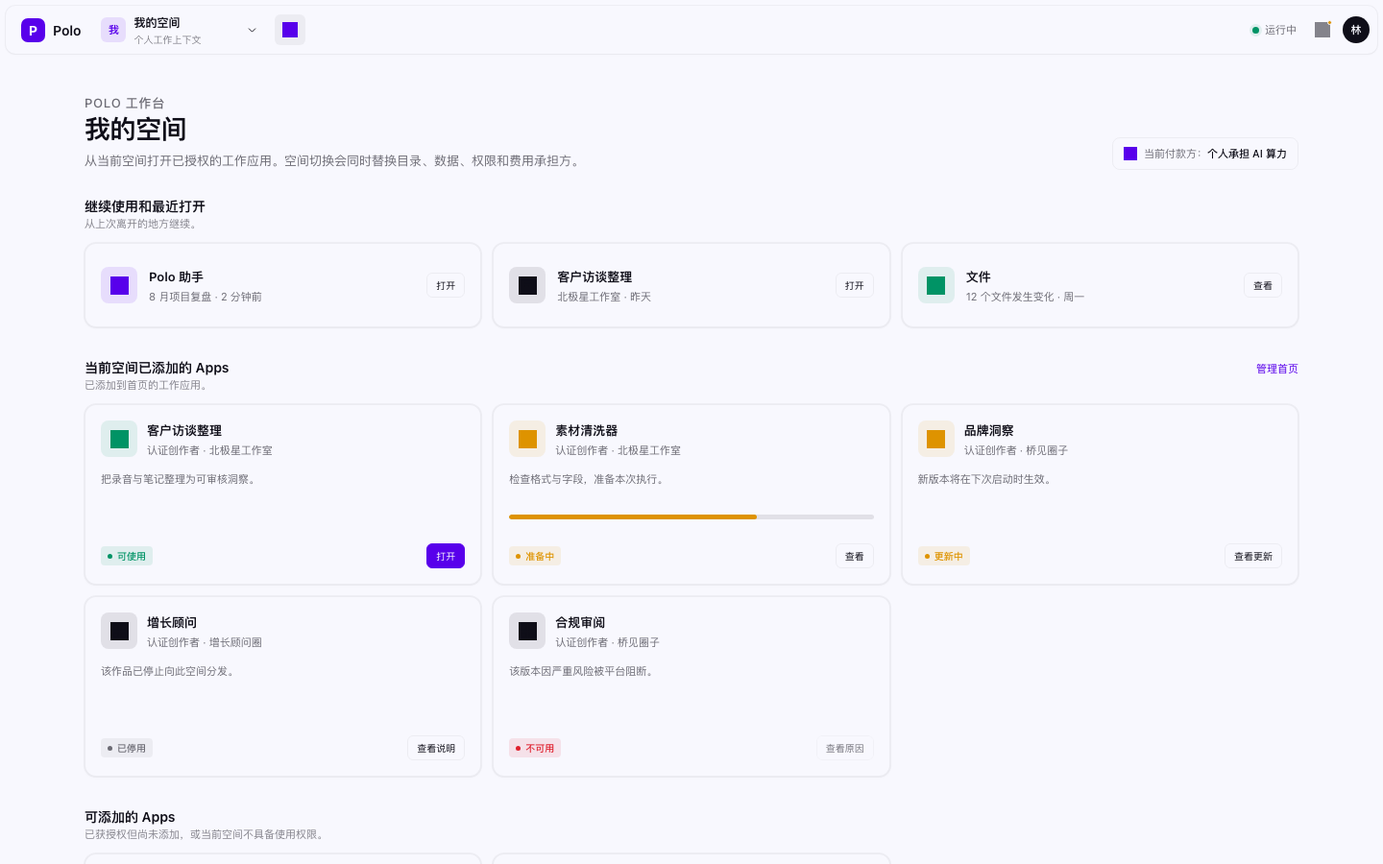
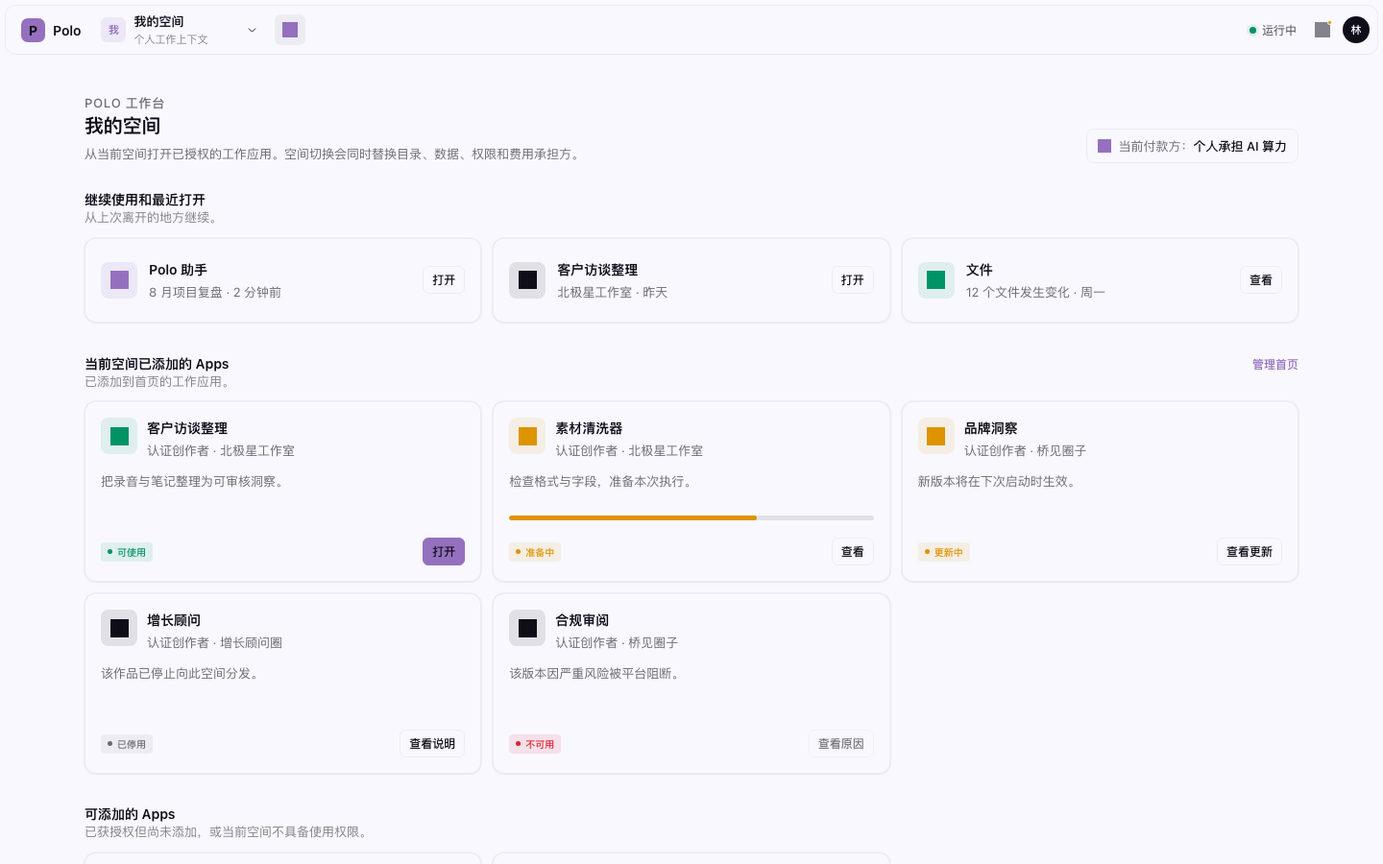
freeze g4 polo client ui

diff --git a/design-demos/polo-client-g4-ui/assets/product.css b/design-demos/polo-client-g4-ui/assets/product.css
@@ -1,11 +1,13 @@
 :root {
   --background: oklch(0.98 0.008 290);
   --foreground: oklch(0.17 0.02 290);
-  --accent: oklch(0.44 0.30 285);
+  /* #9570BE converted from sRGB to OKLCH: oklch(0.613 0.121 304.95). */
+  --accent: oklch(0.613 0.121 304.95);
   --info: oklch(0.72 0.16 75);
   --success: oklch(0.58 0.14 165);
   --destructive: oklch(0.58 0.22 25);
-  --on-accent: oklch(1 0 0);
+  /* #9570BE with white is 3.93:1; use the dark near-foreground for 4.87:1. */
+  --on-accent: oklch(0.17 0.02 290);
   --bg-elevated: color-mix(in srgb, var(--foreground) 1.5%, var(--background));
   --surface-strong: color-mix(in srgb, var(--foreground) 3%, var(--background));
   --border: color-mix(in srgb, var(--foreground) 5%, transparent);
@@ -41,7 +43,8 @@
 [data-theme="dark"] {
   --background: oklch(0.14 0.025 290);
   --foreground: oklch(0.94 0.015 290);
-  --accent: oklch(0.52 0.28 285);
+  /* Dark-surface derivation from #9570BE: lightness +0.080, chroma -0.020, hue retained -> oklch(0.693 0.101 304.95). */
+  --accent: oklch(0.693 0.101 304.95);
   --info: oklch(0.76 0.15 75);
   --success: oklch(0.68 0.14 165);
   --destructive: oklch(0.64 0.22 25);
@@ -67,13 +70,13 @@ button:focus-visible, [tabindex]:focus-visible { outline: 3px solid color-mix(in
 .space-trigger:hover, .space-trigger[aria-expanded="true"] { background: var(--fg-5); }
 .space-avatar { display: grid; width: 26px; height: 26px; flex: 0 0 auto; place-items: center; border-radius: var(--radius-sm); background: var(--accent-soft); color: var(--accent); font-size: 11px; font-weight: 600; }
 .space-copy { display: grid; min-width: 0; gap: 2px; flex: 1; }
-.space-copy strong { overflow: hidden; color: var(--foreground); font-size: 12px; font-weight: 600; text-overflow: ellipsis; white-space: nowrap; }
-.space-copy small { overflow: hidden; color: var(--fg-50); font-size: 10px; text-overflow: ellipsis; white-space: nowrap; }
+.space-copy strong { overflow: hidden; color: var(--foreground); font-size: 13px; font-weight: 600; text-overflow: ellipsis; white-space: nowrap; }
+.space-copy small { overflow: hidden; color: var(--fg-50); font-size: 11px; text-overflow: ellipsis; white-space: nowrap; }
 .icon { display: inline-block; width: 16px; height: 16px; flex: 0 0 auto; background: currentColor; }
 .icon-chevron { width: 13px; height: 13px; background: transparent; }
 .tabs { display: flex; align-items: center; gap: 4px; min-width: 0; height: 100%; overflow-x: auto; scrollbar-width: none; }
 .tabs::-webkit-scrollbar { display: none; }
-.tab { display: inline-flex; align-items: center; gap: 7px; max-width: 180px; height: 32px; padding: 0 7px 0 10px; border: 0; border-radius: var(--radius-sm); background: transparent; color: var(--fg-50); font-size: 12px; white-space: nowrap; }
+.tab { display: inline-flex; align-items: center; gap: 7px; max-width: 180px; height: 32px; padding: 0 7px 0 10px; border: 0; border-radius: var(--radius-sm); background: transparent; color: var(--fg-50); font-size: 13px; white-space: nowrap; }
 .tab:hover, .tab.active { background: var(--fg-5); color: var(--foreground); }
 .tab.active { box-shadow: inset 0 -2px var(--accent); }
 .tab .tab-icon { width: 15px; height: 15px; border-radius: 4px; background: var(--accent-soft); color: var(--accent); }
@@ -84,7 +87,7 @@ button:focus-visible, [tabindex]:focus-visible { outline: 3px solid color-mix(in
 .home-tab .icon { width: 16px; height: 16px; }
 .bar-actions { display: flex; align-items: center; gap: 2px; margin-left: auto; }
 .bar-button, .icon-button, .avatar-button { border: 0; background: transparent; }
-.bar-button { display: flex; align-items: center; gap: 6px; height: 32px; padding: 0 9px; border-radius: var(--radius-sm); color: var(--fg-60); font-size: 11px; }
+.bar-button { display: flex; align-items: center; gap: 6px; height: 32px; padding: 0 9px; border-radius: var(--radius-sm); color: var(--fg-60); font-size: 12px; font-weight: 500; }
 .bar-button:hover { background: var(--fg-5); color: var(--foreground); }
 .icon-button { position: relative; display: grid; width: 32px; height: 32px; place-items: center; border-radius: var(--radius-sm); color: var(--fg-50); }
 .icon-button:hover { background: var(--fg-5); color: var(--foreground); }
@@ -95,15 +98,15 @@ button:focus-visible, [tabindex]:focus-visible { outline: 3px solid color-mix(in
 .popover { position: absolute; top: calc(100% + 8px); border: 1px solid var(--border); border-radius: var(--radius-inner); background: var(--background); box-shadow: var(--shadow-panel); }
 .space-menu { left: 0; width: 274px; padding: 6px; }
 .account-menu { right: 8px; width: 272px; padding: 6px; }
-.menu-label { padding: 8px 9px 5px; color: var(--fg-40); font-size: 10px; font-weight: 500; letter-spacing: .7px; }
+.menu-label { padding: 8px 9px 5px; color: var(--fg-40); font-size: 11px; font-weight: 500; letter-spacing: .75px; text-transform: uppercase; }
 .space-row, .menu-row { display: flex; align-items: center; gap: 9px; width: 100%; min-height: 42px; padding: 6px 8px; border: 0; border-radius: var(--radius-sm); background: transparent; text-align: left; }
 .space-row:hover, .space-row.active, .menu-row:hover { background: var(--fg-5); }
 .space-row > span:nth-child(2) { display: grid; min-width: 0; flex: 1; gap: 2px; }
-.space-row b, .menu-row b { font-size: 12px; font-weight: 500; }
-.space-row small, .menu-row small { color: var(--fg-50); font-size: 10px; }
+.space-row b, .menu-row b { font-size: 13px; font-weight: 500; }
+.space-row small, .menu-row small { color: var(--fg-50); font-size: 11px; }
 .space-row .check { width: 15px; height: 15px; color: var(--success); }
 .menu-divider { height: 1px; margin: 5px 3px; background: var(--border); }
-.menu-section-title { padding: 8px 9px 4px; color: var(--fg-40); font-size: 10px; }
+.menu-section-title { padding: 8px 9px 4px; color: var(--fg-40); font-size: 11px; font-weight: 500; letter-spacing: .75px; text-transform: uppercase; }
 .menu-row .menu-icon { display: grid; width: 26px; height: 26px; place-items: center; border-radius: var(--radius-sm); background: var(--fg-5); color: var(--fg-60); }
 .menu-row .icon { width: 14px; height: 14px; }
 .menu-row .menu-copy { display: grid; min-width: 0; flex: 1; gap: 2px; }
@@ -111,25 +114,25 @@ button:focus-visible, [tabindex]:focus-visible { outline: 3px solid color-mix(in
 
 .workspace-main { max-width: 1360px; margin: 6px auto 0; padding: 28px clamp(18px, 4vw, 48px) 54px; }
 .page-heading { display: flex; align-items: flex-end; justify-content: space-between; gap: 20px; margin-bottom: 28px; }
-.eyebrow { margin: 0 0 7px; color: var(--fg-50); font-size: 10px; font-weight: 500; letter-spacing: .75px; text-transform: uppercase; }
-.page-heading h1 { margin: 0; font-size: 27px; font-weight: 600; letter-spacing: -.4px; line-height: 1.2; }
+.eyebrow { margin: 0 0 7px; color: var(--fg-50); font-size: 11px; font-weight: 500; letter-spacing: .75px; text-transform: uppercase; }
+.page-heading h1 { margin: 0; font-size: 20px; font-weight: 600; letter-spacing: -.15px; line-height: 1.25; }
 .page-heading p { max-width: 620px; margin: 8px 0 0; color: var(--fg-60); font-size: 13px; line-height: 1.5; }
-.heading-context { display: flex; align-items: center; gap: 7px; padding: 8px 11px; border: 1px solid var(--border); border-radius: var(--radius-md); color: var(--fg-60); font-size: 11px; white-space: nowrap; }
+.heading-context { display: flex; align-items: center; gap: 7px; padding: 8px 11px; border: 1px solid var(--border); border-radius: var(--radius-md); color: var(--fg-60); font-size: 13px; white-space: nowrap; }
 .heading-context strong { color: var(--foreground); font-weight: 500; }
 .heading-context .icon { width: 14px; height: 14px; color: var(--accent); }
 .section { margin-top: 32px; }
 .section:first-of-type { margin-top: 0; }
 .section-header { display: flex; align-items: baseline; justify-content: space-between; gap: 12px; margin-bottom: 12px; }
 .section-header h2 { margin: 0; font-size: 14px; font-weight: 600; }
-.section-header p { margin: 0; color: var(--fg-50); font-size: 11px; }
-.section-link { padding: 3px 0; border: 0; background: transparent; color: var(--accent); font-size: 11px; }
+.section-header p { margin: 0; color: var(--fg-50); font-size: 13px; line-height: 1.35; }
+.section-link { padding: 3px 0; border: 0; background: transparent; color: var(--accent); font-size: 12px; font-weight: 500; }
 .section-link:hover { text-decoration: underline; }
 .continue-grid, .card-grid { display: grid; grid-template-columns: repeat(3, minmax(0, 1fr)); gap: 12px; }
 .continue-card, .product-card, .result-card, .skill-card { min-width: 0; padding: 16px; border: 1px solid var(--border); border-radius: var(--radius-lg); background: var(--background); box-shadow: var(--shadow-minimal); transition: transform var(--transition-fast), box-shadow var(--transition-fast); }
 .continue-card:hover, .product-card:hover, .result-card:hover, .skill-card:hover { transform: translateY(-1px); box-shadow: var(--shadow-middle); }
 .continue-card { display: flex; align-items: center; gap: 12px; min-height: 88px; }
 .product-card { display: flex; min-height: 188px; flex-direction: column; }
-.result-card { min-height: 118px; }
+.result-card { min-height: 124px; }
 .card-heading { display: flex; align-items: flex-start; gap: 10px; min-width: 0; }
 .app-art { display: grid; width: 38px; height: 38px; flex: 0 0 auto; place-items: center; border-radius: var(--radius-md); background: var(--accent-soft); color: var(--accent); }
 .app-art.teal { background: var(--success-soft); color: var(--success); }
@@ -137,12 +140,12 @@ button:focus-visible, [tabindex]:focus-visible { outline: 3px solid color-mix(in
 .app-art.ink { background: var(--fg-10); color: var(--foreground); }
 .app-art .icon { width: 19px; height: 19px; }
 .card-title { min-width: 0; }
-.card-title h3 { overflow: hidden; margin: 1px 0 4px; font-size: 13px; font-weight: 600; text-overflow: ellipsis; white-space: nowrap; }
-.card-title p, .product-description, .result-card p, .skill-card p { margin: 0; color: var(--fg-60); font-size: 11px; line-height: 1.5; }
+.card-title h3 { overflow: hidden; margin: 1px 0 4px; font-size: 14px; font-weight: 600; text-overflow: ellipsis; white-space: nowrap; }
+.card-title p, .product-description, .result-card p, .skill-card p { margin: 0; color: var(--fg-60); font-size: 13px; line-height: 1.45; }
 .continue-card .card-title p { overflow: hidden; text-overflow: ellipsis; white-space: nowrap; }
-.card-meta { margin-top: 10px; color: var(--fg-50); font-size: 10px; }
+.card-meta { margin-top: 10px; color: var(--fg-50); font-size: 11px; }
 .product-description { min-height: 35px; margin-top: 13px; }
-.source-line { margin-top: 3px; overflow: hidden; color: var(--fg-50); font-size: 10px; text-overflow: ellipsis; white-space: nowrap; }
+.source-line { margin-top: 3px; overflow: hidden; color: var(--fg-50); font-size: 11px; text-overflow: ellipsis; white-space: nowrap; }
 .status-line { display: flex; align-items: center; gap: 5px; margin-top: auto; padding-top: 14px; }
 .status { display: inline-flex; align-items: center; gap: 5px; min-height: 20px; padding: 2px 7px; border-radius: var(--radius-xs); font-size: 10px; font-weight: 500; line-height: 1.4; }
 .status::before { width: 5px; height: 5px; border-radius: 50%; background: currentColor; content: ""; }
@@ -150,17 +153,24 @@ button:focus-visible, [tabindex]:focus-visible { outline: 3px solid color-mix(in
 .status.info { background: var(--info-soft); color: var(--info); }
 .status.bad { background: var(--destructive-soft); color: var(--destructive); }
 .status.neutral { background: var(--fg-5); color: var(--fg-60); }
-.card-action { margin-left: auto; padding: 5px 9px; border: 1px solid var(--border); border-radius: var(--radius-sm); background: transparent; color: var(--foreground); font-size: 10px; }
+.card-action { margin-left: auto; padding: 5px 9px; border: 1px solid var(--border); border-radius: var(--radius-sm); background: transparent; color: var(--foreground); font-size: 12px; font-weight: 500; }
 .card-action:hover { border-color: var(--accent); color: var(--accent); }
 .card-action.primary { border-color: var(--accent); background: var(--accent); color: var(--on-accent); }
 .card-action:disabled { cursor: not-allowed; opacity: .55; }
 .progress-bar { height: 5px; margin-top: 10px; overflow: hidden; border-radius: var(--radius-pill); background: var(--fg-10); }
 .progress-bar i { display: block; width: 68%; height: 100%; border-radius: inherit; background: var(--info); }
 .empty-note { padding: 20px; border: 1px dashed var(--border); border-radius: var(--radius-lg); color: var(--fg-60); font-size: 12px; }
+/* derived: foundation §5 空状态/加载契约 */
+.skeleton-stack { display: grid; gap: 8px; }
+.skeleton { min-height: 12px; border-radius: 5px; background: linear-gradient(90deg, var(--fg-5) 0%, var(--fg-10) 50%, var(--fg-5) 100%); background-size: 200% 100%; animation: skeleton-shimmer 1.5s ease-in-out infinite; }
+.empty-state { display: grid; justify-items: center; gap: 10px; padding: 28px 20px; border: 1px solid var(--border); border-radius: var(--radius-lg); color: var(--fg-60); text-align: center; }
+.empty-state h2 { margin: 0; color: var(--foreground); font-size: 20px; font-weight: 600; line-height: 1.25; letter-spacing: -.15px; }
+.empty-state p { max-width: 440px; margin: 0; font-size: 13px; font-weight: 400; line-height: 1.35; }
+.empty-state .button { margin-top: 2px; }
 .built-in-grid { display: grid; grid-template-columns: repeat(3, minmax(0, 1fr)); gap: 12px; }
 .built-in-card { display: flex; align-items: center; gap: 12px; min-height: 94px; padding: 15px; border-radius: var(--radius-lg); background: var(--fg-3); }
-.built-in-card h3 { margin: 0 0 4px; font-size: 13px; font-weight: 600; }
-.built-in-card p { margin: 0; color: var(--fg-60); font-size: 11px; line-height: 1.45; }
+.built-in-card h3 { margin: 0 0 4px; font-size: 14px; font-weight: 600; }
+.built-in-card p { margin: 0; color: var(--fg-60); font-size: 13px; line-height: 1.45; }
 .built-in-card .card-action { margin-left: auto; }
 .skills-grid { display: grid; grid-template-columns: repeat(3, minmax(0, 1fr)); gap: 12px; }
 .skill-card { min-height: 132px; }
@@ -168,8 +178,8 @@ button:focus-visible, [tabindex]:focus-visible { outline: 3px solid color-mix(in
 .skill-card .skill-callout { margin-top: 12px; padding-top: 9px; border-top: 1px solid var(--border); color: var(--accent); font-size: 10px; }
 .skill-card .skill-callout::before { display: inline-block; width: 5px; height: 5px; margin-right: 6px; border-radius: 50%; background: currentColor; content: ""; }
 .results-grid { display: grid; grid-template-columns: 1.2fr 1fr 1fr; gap: 12px; }
-.result-card h3 { margin: 0 0 5px; font-size: 12px; font-weight: 600; }
-.result-card .result-foot { display: flex; align-items: center; justify-content: space-between; margin-top: 15px; color: var(--fg-50); font-size: 10px; }
+.result-card h3 { margin: 0 0 5px; font-size: 14px; font-weight: 600; }
+.result-card .result-foot { display: flex; align-items: center; justify-content: space-between; margin-top: 15px; color: var(--fg-50); font-size: 11px; }
 .result-card .result-foot a { color: var(--accent); text-decoration: none; }
 .result-card .result-foot a:hover { text-decoration: underline; }
 
@@ -177,7 +187,7 @@ button:focus-visible, [tabindex]:focus-visible { outline: 3px solid color-mix(in
 .dialog { width: min(480px, 100%); overflow: hidden; border: 1px solid var(--border); border-radius: var(--radius-edge); background: var(--background); box-shadow: var(--shadow-panel); animation: dialog-in var(--transition-fast); }
 .dialog-header { display: flex; align-items: flex-start; justify-content: space-between; gap: 16px; padding: 20px 20px 14px; }
 .dialog-header h2 { margin: 0; font-size: 16px; font-weight: 600; }
-.dialog-header p { margin: 6px 0 0; color: var(--fg-60); font-size: 12px; line-height: 1.5; }
+.dialog-header p { margin: 6px 0 0; color: var(--fg-60); font-size: 13px; font-weight: 400; line-height: 1.5; }
 .dialog-body { padding: 0 20px 18px; }
 .dialog-footer { display: flex; justify-content: flex-end; gap: 8px; padding: 13px 20px; border-top: 1px solid var(--border); }
 .close-button { display: grid; width: 28px; height: 28px; place-items: center; border: 0; border-radius: var(--radius-sm); background: transparent; color: var(--fg-50); }
@@ -186,10 +196,10 @@ button:focus-visible, [tabindex]:focus-visible { outline: 3px solid color-mix(in
 .dialog-row { display: flex; align-items: center; gap: 10px; padding: 11px; border-bottom: 1px solid var(--border); }
 .dialog-row:last-child { border-bottom: 0; }
 .dialog-row .row-copy { display: grid; min-width: 0; flex: 1; gap: 3px; }
-.dialog-row strong { font-size: 12px; font-weight: 500; }
+.dialog-row strong { font-size: 13px; font-weight: 500; }
 .dialog-row small { color: var(--fg-50); font-size: 10px; }
 .dialog-row .row-state { color: var(--info); font-size: 10px; }
-.button { min-height: 32px; padding: 0 12px; border: 1px solid var(--border); border-radius: var(--radius-md); background: transparent; color: var(--foreground); font-size: 11px; }
+.button { min-height: 32px; padding: 0 12px; border: 1px solid var(--border); border-radius: var(--radius-md); background: transparent; color: var(--foreground); font-size: 12px; font-weight: 500; }
 .button:hover { background: var(--fg-5); }
 .button.primary { border-color: var(--accent); background: var(--accent); color: var(--on-accent); }
 .button.danger { border-color: var(--destructive); background: var(--destructive); color: var(--on-accent); }
@@ -199,10 +209,10 @@ button:focus-visible, [tabindex]:focus-visible { outline: 3px solid color-mix(in
 .notice:hover { background: var(--fg-5); }
 .notice-mark { width: 6px; height: 6px; margin-top: 5px; border-radius: 50%; background: var(--info); }
 .notice.success .notice-mark { background: var(--success); }
-.notice strong { display: block; font-size: 11px; font-weight: 500; }
-.notice p { margin: 3px 0 0; color: var(--fg-60); font-size: 10px; line-height: 1.45; }
-.notice small { display: inline-block; margin-top: 4px; color: var(--fg-50); font-size: 9px; }
-.toast { position: fixed; z-index: 80; right: 20px; bottom: 20px; max-width: 360px; padding: 10px 13px; border-left: 3px solid var(--accent); border-radius: var(--radius-md); background: var(--foreground); color: var(--background); box-shadow: var(--shadow-middle); font-size: 11px; animation: toast-in var(--transition-fast); }
+.notice strong { display: block; font-size: 13px; font-weight: 500; }
+.notice p { margin: 3px 0 0; color: var(--fg-60); font-size: 13px; font-weight: 400; line-height: 1.45; }
+.notice small { display: inline-block; margin-top: 4px; color: var(--fg-50); font-size: 10px; }
+.toast { position: fixed; z-index: 80; right: 20px; bottom: 20px; max-width: 360px; padding: 10px 13px; border-left: 3px solid var(--accent); border-radius: var(--radius-md); background: var(--foreground); color: var(--background); box-shadow: var(--shadow-middle); font-size: 13px; line-height: 1.35; animation: toast-in var(--transition-fast); }
 .window-guard { position: fixed; z-index: 100; inset: 0; display: grid; place-items: center; padding: 24px; background: var(--background); }
 .guard-card { max-width: 330px; text-align: center; }
 .guard-icon { display: grid; width: 52px; height: 52px; place-items: center; margin: 0 auto 18px; border-radius: var(--radius-edge); background: var(--info-soft); color: var(--info); }
@@ -211,6 +221,7 @@ button:focus-visible, [tabindex]:focus-visible { outline: 3px solid color-mix(in
 .guard-card p:last-child { margin: 0; color: var(--fg-60); font-size: 13px; line-height: 1.55; }
 @keyframes dialog-in { from { opacity: 0; transform: translateY(4px); } to { opacity: 1; transform: translateY(0); } }
 @keyframes toast-in { from { opacity: 0; transform: translateY(8px); } to { opacity: 1; transform: translateY(0); } }
+@keyframes skeleton-shimmer { from { background-position: 200% 0; } to { background-position: -200% 0; } }
 
 @media (max-width: 1080px) {
   .brand-lockup { min-width: 62px; }

diff --git a/design-demos/polo-client-g4-ui/assets/app.js b/design-demos/polo-client-g4-ui/assets/app.js
@@ -30,7 +30,7 @@
 
   const spaces = {
     personal: { name: "我的空间", type: "个人工作上下文", short: "我", payer: "个人承担 AI 算力" },
-    enterprise: { name: "知远智能", type: "企业空间 · Member", short: "知", payer: "知远智能承担 AI 算力" }
+    enterprise: { name: "北辰智能科技", type: "企业空间 · Member", short: "北", payer: "北辰智能科技承担 AI 算力" }
   };
 
   const catalog = {
@@ -49,7 +49,7 @@
       ],
       available: [
         { id: "writing", name: "商务写作", source: "认证创作者 · 桥见圈子", description: "根据选定材料生成正式商务文本。", status: "可添加", tone: "good", action: "添加到首页" },
-        { id: "weekly", name: "销售周报助手", source: "企业内部导入 · 仅知远智能", description: "企业成员可用，个人空间不能添加。", status: "不可用", tone: "bad", action: "查看权限", disabled: true }
+        { id: "weekly", name: "销售周报助手", source: "企业内部导入 · 仅北辰智能科技", description: "企业成员可用，个人空间不能添加。", status: "不可用", tone: "bad", action: "查看权限", disabled: true }
       ],
       skills: [
         { name: "资料研究", source: "Polo 内置", description: "检索已授权的材料并整理出处。", status: "已启用", tone: "good" },
@@ -69,18 +69,18 @@
         { id: "tasks", name: "任务与结果", detail: "3 项运行记录 · 周一", kind: "task", action: "查看" }
       ],
       added: [
-        { id: "board", name: "项目交付看板", source: "企业内部导入 · 知远智能", description: "查看当前项目的里程碑、风险和交付材料。", status: "可使用", tone: "good", action: "打开" },
-        { id: "weekly", name: "销售周报助手", source: "企业内部导入 · 知远智能", description: "正在生成本周销售摘要，完成后通知你。", status: "准备中", tone: "info", action: "查看" },
-        { id: "knowledge", name: "企业知识检索", source: "企业内部导入 · 知远智能", description: "只读取企业已授权的知识库。", status: "可使用", tone: "good", action: "打开" },
-        { id: "legacy", name: "旧版报价助手", source: "企业内部导入 · 知远智能", description: "企业已停用此版本，历史结果仍保留。", status: "已停用", tone: "neutral", action: "查看结果" }
+        { id: "board", name: "项目交付看板", source: "企业内部导入 · 北辰智能科技", description: "查看当前项目的里程碑、风险和交付材料。", status: "可使用", tone: "good", action: "打开" },
+        { id: "weekly", name: "销售周报助手", source: "企业内部导入 · 北辰智能科技", description: "正在生成本周销售摘要，完成后通知你。", status: "准备中", tone: "info", action: "查看" },
+        { id: "knowledge", name: "企业知识检索", source: "企业内部导入 · 北辰智能科技", description: "只读取企业已授权的知识库。", status: "可使用", tone: "good", action: "打开" },
+        { id: "legacy", name: "旧版报价助手", source: "企业内部导入 · 北辰智能科技", description: "企业已停用此版本，历史结果仍保留。", status: "已停用", tone: "neutral", action: "查看结果" }
       ],
       available: [
         { id: "research", name: "客户访谈整理", source: "认证创作者 · 北极星工作室", description: "该作品已获授权，但尚未添加到企业首页。", status: "可添加", tone: "good", action: "添加到首页" },
         { id: "private", name: "财务摘要", source: "企业内部导入 · 财务组", description: "需要 Owner 扩大成员范围后才能使用。", status: "不可用", tone: "bad", action: "查看权限", disabled: true }
       ],
       skills: [
-        { name: "企业知识检索", source: "企业内部导入 · 知远智能", description: "在企业授权范围内检索资料。", status: "已启用", tone: "good" },
-        { name: "项目风险摘要", source: "企业内部导入 · 知远智能", description: "整理项目材料中的风险和阻塞。", status: "已启用", tone: "good" },
+        { name: "企业知识检索", source: "企业内部导入 · 北辰智能科技", description: "在企业授权范围内检索资料。", status: "已启用", tone: "good" },
+        { name: "项目风险摘要", source: "企业内部导入 · 北辰智能科技", description: "整理项目材料中的风险和阻塞。", status: "已启用", tone: "good" },
         { name: "资料研究", source: "个人空间授权不可继承", description: "个人空间中的 Skill 不会进入企业空间。", status: "不可用", tone: "bad" }
       ],
       results: [
@@ -209,7 +209,7 @@
     state.runtimeOpen = false;
     state.notificationOpen = true;
     renderChrome();
-    showModal(`<section class="dialog" role="dialog" aria-modal="true" aria-labelledby="notification-title" tabindex="-1"><div class="dialog-header"><div><h2 id="notification-title">通知中心</h2><p>通知可以来自不同空间，每条通知都会标明所属空间。</p></div><button class="close-button" data-close-modal aria-label="关闭">${icon("close")}</button></div><div class="dialog-body"><div class="notice-list"><div class="notice"><span class="notice-mark"></span><div><strong>销售周报助手正在准备材料</strong><p>任务准备完成后，你可以在知远智能中继续查看。</p><small>知远智能 · 6 分钟前</small></div></div><div class="notice success"><span class="notice-mark"></span><div><strong>客户访谈整理已保存结果</strong><p>新增 4 条洞察和 2 个待确认问题。</p><small>我的空间 · 12 分钟前</small></div></div><div class="notice"><span class="notice-mark"></span><div><strong>品牌洞察有新版本</strong><p>下次启动时将使用更新后的稳定版本。</p><small>我的空间 · 周一</small></div></div></div></div><div class="dialog-footer"><button class="button" data-close-modal>关闭</button></div></section>`);
+    showModal(`<section class="dialog" role="dialog" aria-modal="true" aria-labelledby="notification-title" tabindex="-1"><div class="dialog-header"><div><h2 id="notification-title">通知中心</h2><p>通知可以来自不同空间，每条通知都会标明所属空间。</p></div><button class="close-button" data-close-modal aria-label="关闭">${icon("close")}</button></div><div class="dialog-body"><div class="notice-list"><div class="notice"><span class="notice-mark"></span><div><strong>销售周报助手正在准备材料</strong><p>任务准备完成后，你可以在北辰智能科技中继续查看。</p><small>北辰智能科技 · 6 分钟前</small></div></div><div class="notice success"><span class="notice-mark"></span><div><strong>客户访谈整理已保存结果</strong><p>新增 4 条洞察和 2 个待确认问题。</p><small>我的空间 · 12 分钟前</small></div></div><div class="notice"><span class="notice-mark"></span><div><strong>品牌洞察有新版本</strong><p>下次启动时将使用更新后的稳定版本。</p><small>我的空间 · 周一</small></div></div></div></div><div class="dialog-footer"><button class="button" data-close-modal>关闭</button></div></section>`);
   }
 
   function requestSpace(next) {
@@ -217,7 +217,7 @@
     if (state.space === "personal") {
       state.openMenu = null;
       render();
-      showModal(`<section class="dialog" role="dialog" aria-modal="true" aria-labelledby="switch-title" tabindex="-1"><div class="dialog-header"><div><h2 id="switch-title">切换到知远智能</h2><p>当前空间有一项运行中的任务。必须先终止它，才能安全切换空间。</p></div><button class="close-button" data-close-modal aria-label="关闭">${icon("close")}</button></div><div class="dialog-body"><div class="dialog-list"><div class="dialog-row"><span class="app-art amber">${icon("app")}</span><span class="row-copy"><strong>客户访谈整理</strong><small>我的空间 · 材料准备中</small></span><span class="row-state">运行中</span></div></div></div><div class="dialog-footer"><button class="button" data-close-modal>留在我的空间</button><button class="button primary" data-action="stop-and-switch">终止并切换</button></div></section>`);
+      showModal(`<section class="dialog" role="dialog" aria-modal="true" aria-labelledby="switch-title" tabindex="-1"><div class="dialog-header"><div><h2 id="switch-title">切换到北辰智能科技</h2><p>当前空间有一项运行中的任务。必须先终止它，才能安全切换空间。</p></div><button class="close-button" data-close-modal aria-label="关闭">${icon("close")}</button></div><div class="dialog-body"><div class="dialog-list"><div class="dialog-row"><span class="app-art amber">${icon("app")}</span><span class="row-copy"><strong>客户访谈整理</strong><small>我的空间 · 材料准备中</small></span><span class="row-state">运行中</span></div></div></div><div class="dialog-footer"><button class="button" data-close-modal>留在我的空间</button><button class="button primary" data-action="stop-and-switch">终止并切换</button></div></section>`);
     } else {
       state.space = next;
       state.activeTab = "home";
@@ -243,7 +243,7 @@
     if (target.dataset.action === "notifications") { openNotifications(); return; }
     if (target.dataset.action === "theme") { state.theme = state.theme === "dark" ? "light" : "dark"; localStorage.setItem("polo-g4-theme", state.theme); render(); showToast(`已切换到${state.theme === "dark" ? "深色" : "浅色"}主题。`); return; }
     if (["settings", "enterprise-admin", "creator-workbench"].includes(target.dataset.action)) { state.openMenu = null; render(); showToast(target.dataset.action === "settings" ? "账号与偏好将在设置中打开。" : "此入口将在系统浏览器中打开。"); return; }
-    if (target.dataset.action === "stop-and-switch") { closeModal(); state.space = "enterprise"; state.activeTab = "home"; state.tabs = []; state.runtimeOpen = false; render(); showToast("运行项已终止，已安全切换到知远智能。"); return; }
+    if (target.dataset.action === "stop-and-switch") { closeModal(); state.space = "enterprise"; state.activeTab = "home"; state.tabs = []; state.runtimeOpen = false; render(); showToast("运行项已终止，已安全切换到北辰智能科技。"); return; }
     if (target.dataset.action === "view-runtime") { closeModal(); state.activeTab = "tasks"; state.runtimeOpen = false; openTab("tasks"); return; }
     if (target.dataset.action === "app-primary") { showToast("已在当前 App Tab 中准备新的使用。后续流程将在此继续。"); return; }
     if (target.dataset.result) { event.preventDefault(); showToast(`已打开“${target.dataset.result}”。`); return; }
